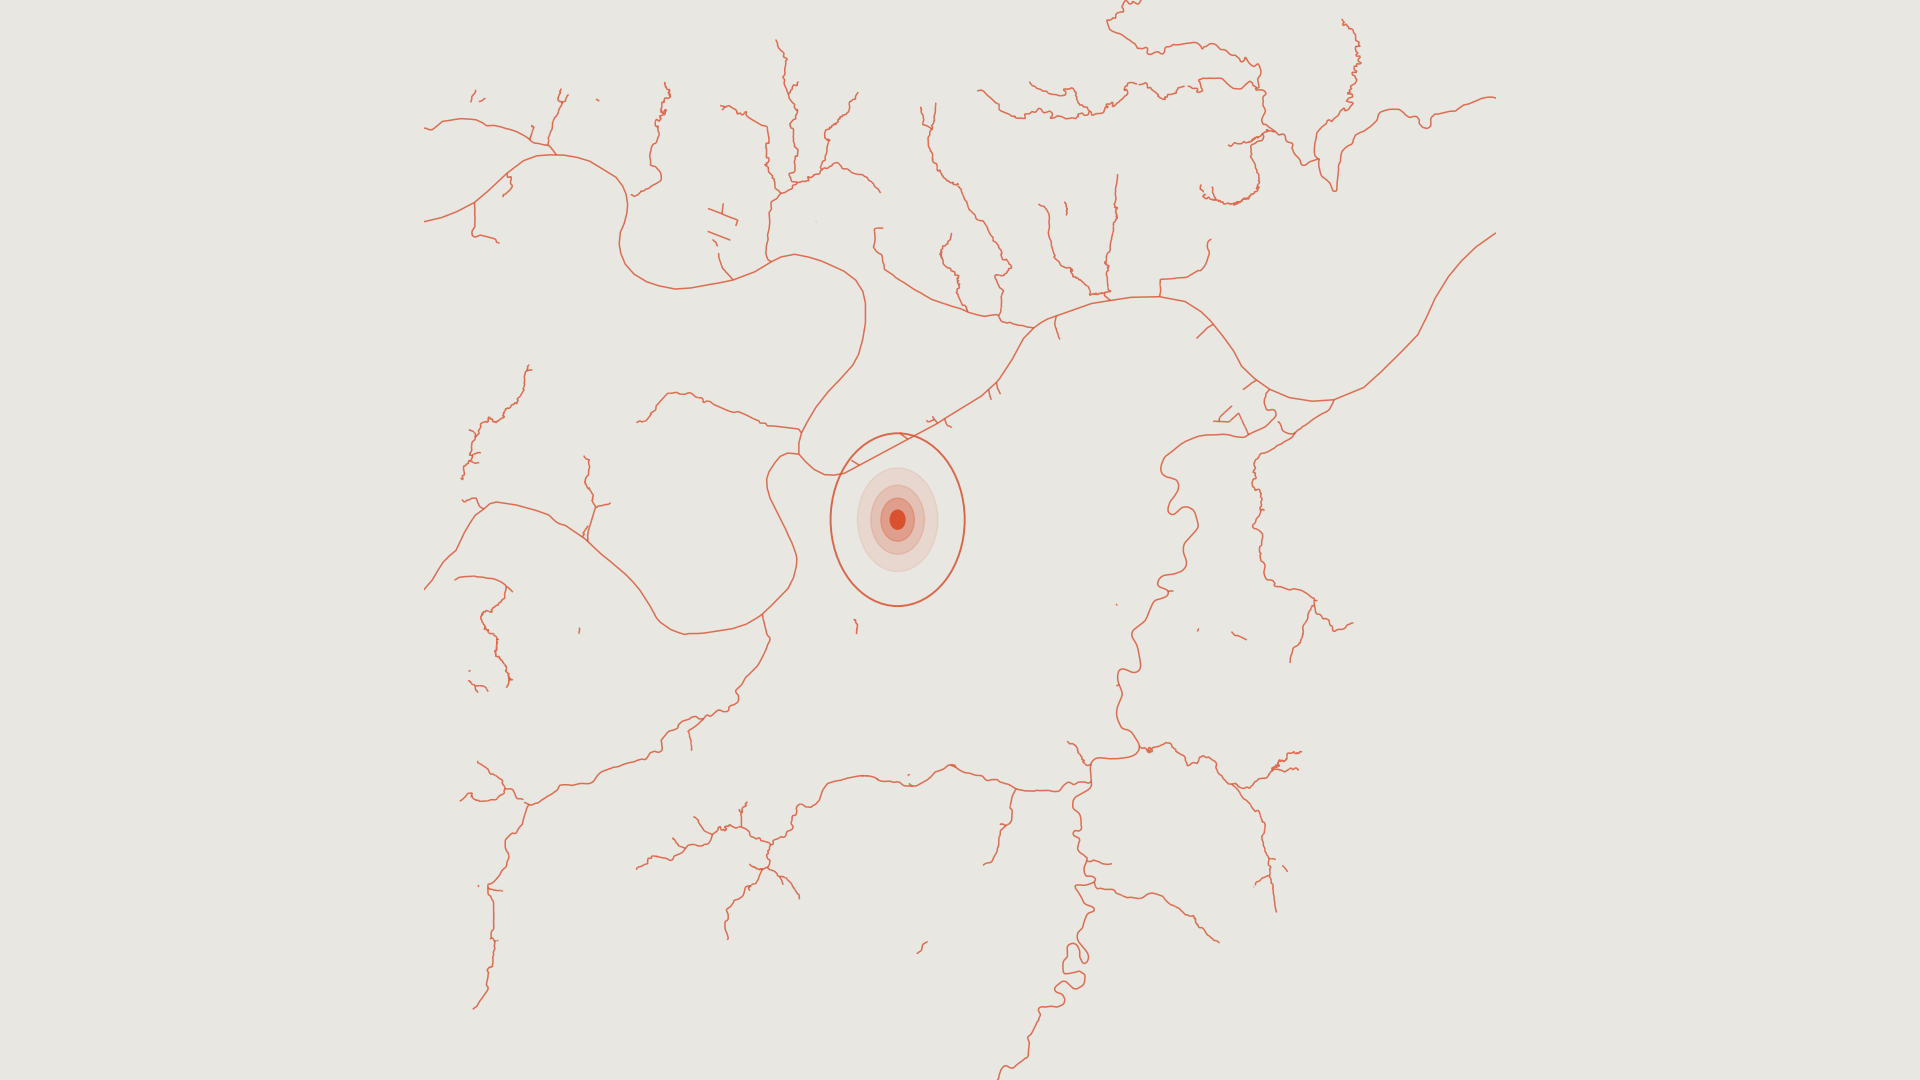
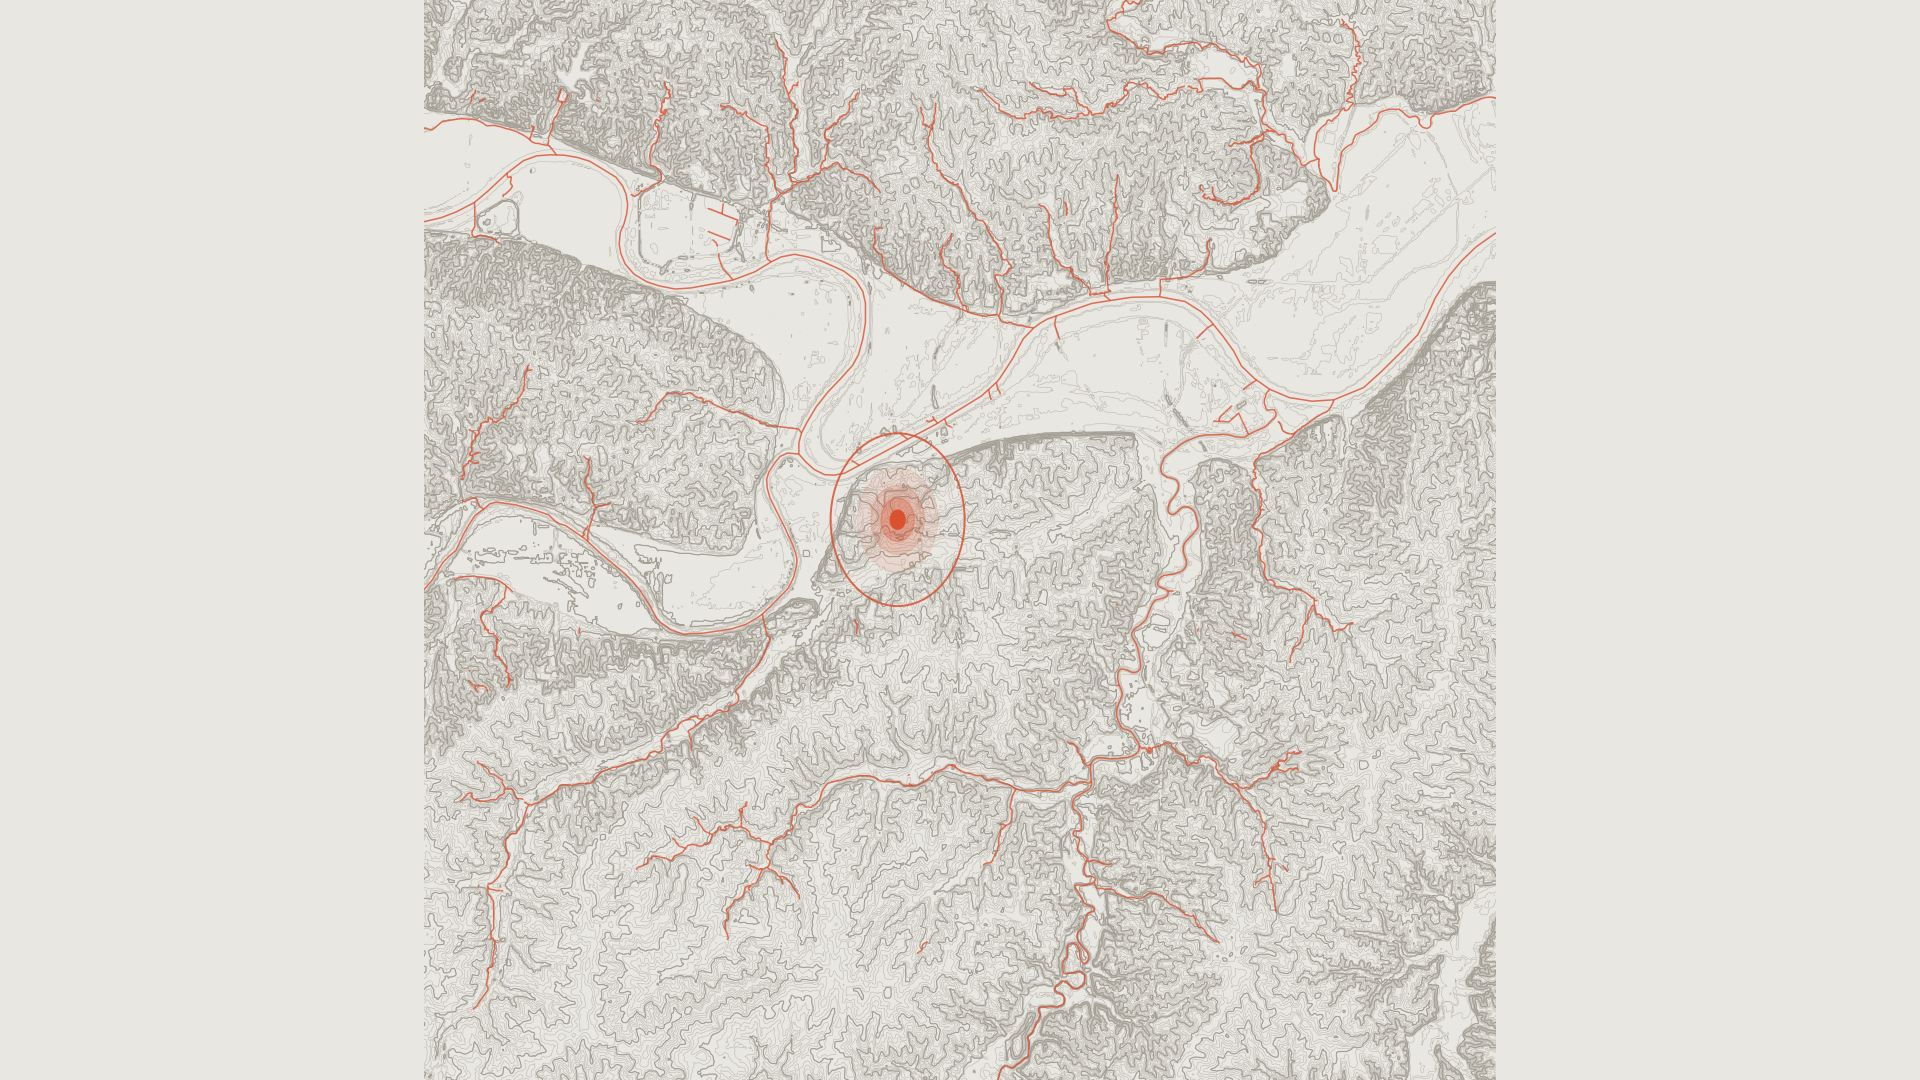
Small visual updates

Changed region(s): [[0.2188, 0.0, 0.7812, 1.0]]

diff --git a/wallpaper-generators/gen_topography.py b/wallpaper-generators/gen_topography.py
@@ -10,7 +10,7 @@ import os
 import numpy as np
 import matplotlib; matplotlib.use("Agg")
 import matplotlib.pyplot as plt
-from matplotlib.patches import Circle
+from matplotlib.patches import Circle, Ellipse
 import py3dep
 import rioxarray  # noqa: enables the .rio accessor
 
@@ -45,10 +45,14 @@ except Exception as e:
     print("  (river overlay skipped:", e, ")")
 
 ax.set_xlim(W,E); ax.set_ylim(S,N)
+# markers drawn as ellipses so the aspect correction renders them as true circles
+asp=1/np.cos(np.radians(CENTER[0]))
+def mark(r, **kw):
+    ax.add_patch(Ellipse((CENTER[1],CENTER[0]), width=2*r, height=2*r/asp, **kw))
 for r,a in [(0.012,0.10),(0.008,0.16),(0.005,0.30)]:
-    ax.add_patch(Circle((CENTER[1],CENTER[0]), r, color=RED, alpha=a, zorder=6))
-ax.add_patch(Circle((CENTER[1],CENTER[0]), 0.02, fill=False, edgecolor=RED, lw=1.4, alpha=0.85, zorder=6))
-ax.add_patch(Circle((CENTER[1],CENTER[0]), 0.0022, color=RED, zorder=7))
+    mark(r, color=RED, alpha=a, zorder=6)
+mark(0.02, fill=False, edgecolor=RED, lw=1.4, alpha=0.85, zorder=6)
+mark(0.0013, color=RED, zorder=7)
 
 os.makedirs(os.path.dirname(OUT), exist_ok=True)
 fig.savefig(OUT, facecolor=BG, dpi=100)

diff --git a/wallpaper-generators/gen_citymap.py b/wallpaper-generators/gen_citymap.py
@@ -58,7 +58,7 @@ mx,my=pt.x, pt.y
 for r,a in [(900,0.10),(600,0.16),(360,0.30)]:
     ax.add_patch(Circle((mx,my), r, color=RED, alpha=a, zorder=6))
 ax.add_patch(Circle((mx,my), 1500, fill=False, edgecolor=RED, lw=1.4, alpha=0.85, zorder=6))
-ax.add_patch(Circle((mx,my), 170, color=RED, zorder=7))
+ax.add_patch(Circle((mx,my), 90, color=RED, zorder=7))
 
 # --- zoom to the street network (so distant rivers don't blow out the view) ---
 minx,miny,maxx,maxy = edges.total_bounds